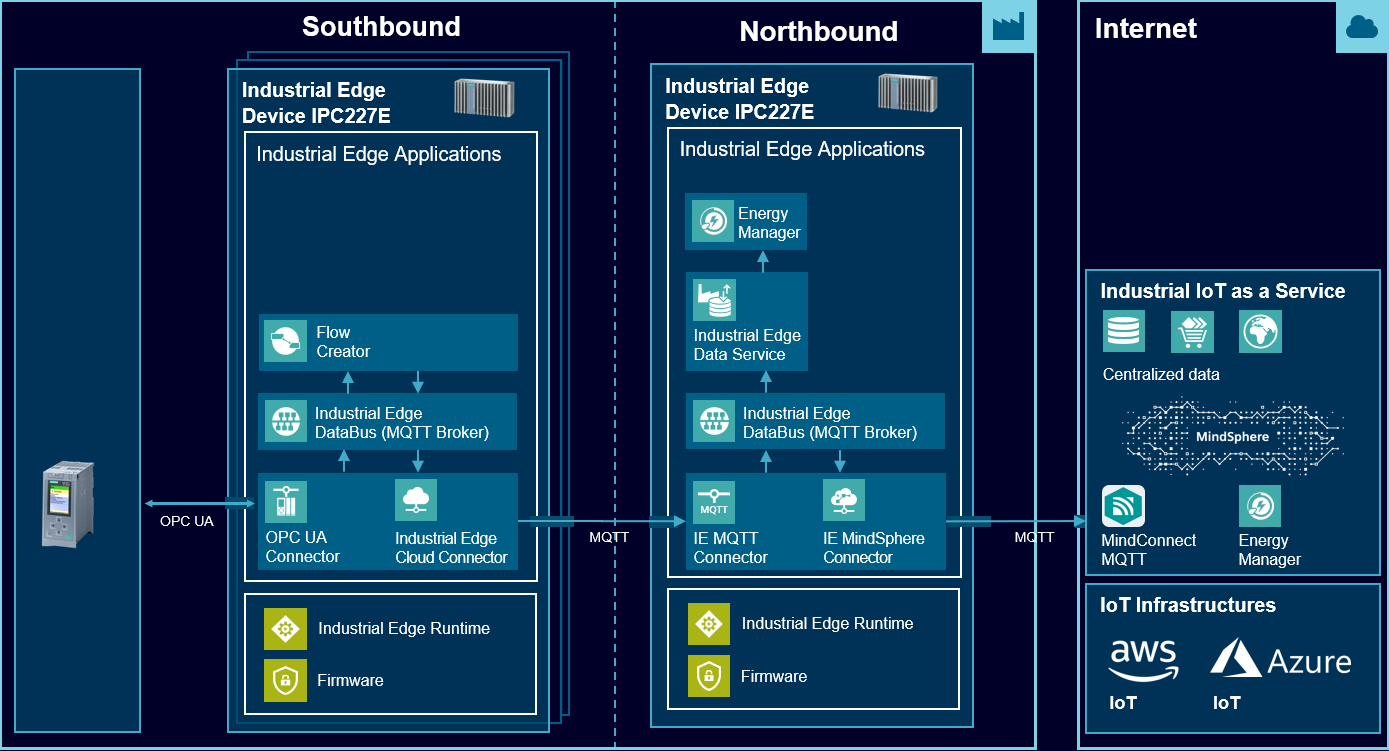
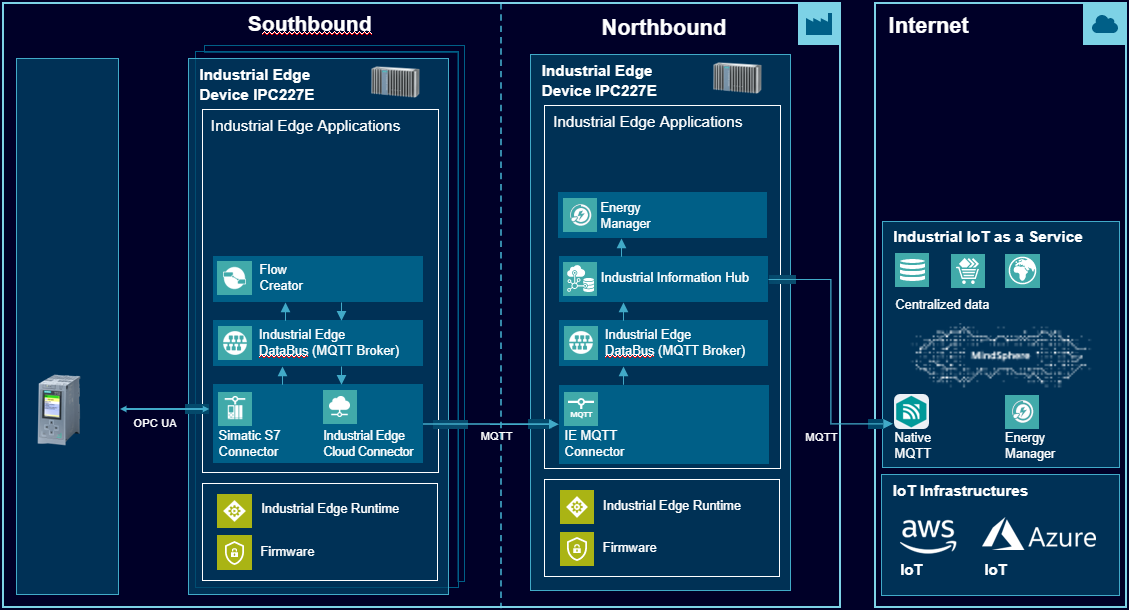
added new hierachy picture

Changed region(s): [[0.0, 0.0, 1.0, 1.0]]

diff --git a/README.md b/README.md
@@ -2,10 +2,10 @@
 
 Use case for communication from Edge Device to Edge Device and company Cloud (e.g. MindSphere) via MQTT 
 
-- [Shopfloor to Cloud Connectivity - Integrate machine & production data securely into the company cloud](#shopfloor-to-cloud-connectivity---integrate-machine--production-data-securely-into-the-company-cloud)
+- [Shopfloor to Cloud Connectivity - Integrate machine \& production data securely into the company cloud](#shopfloor-to-cloud-connectivity---integrate-machine--production-data-securely-into-the-company-cloud)
   - [Overview](#overview)
     - [Reference Architecture](#reference-architecture)
-      - [Option 1: MindSphere Connector - MindConnect MQTT](#option-1-mindsphere-connector---mindconnect-mqtt)
+      - [Option 1: IIH Mindsphere Sync - Native MQTT](#option-1-iih-mindsphere-sync---native-mqtt)
       - [Option 2: IE Cloud Connector - MindConnect IoT Extension](#option-2-ie-cloud-connector---mindconnect-iot-extension)
     - [Network Architecture](#network-architecture)
   - [General task](#general-task)
@@ -19,13 +19,13 @@ Use case for communication from Edge Device to Edge Device and company Cloud (e.
   - [Contribution](#contribution)
   - [Licence and Legal Information](#licence-and-legal-information)
 
-## Overview 
+## Overview
 
 ![overview](docs/graphics/overview.png)
 
 ### Reference Architecture 
 
-#### Option 1: MindSphere Connector - MindConnect MQTT 
+#### Option 1: IIH Mindsphere Sync - Native MQTT 
 
 ![overview3](docs/graphics/overview4.png)
 

diff --git a/docs/install_PLC_Devices_Southbound.md b/docs/install_PLC_Devices_Southbound.md
@@ -60,7 +60,8 @@ To provide data from the PLC on the IE Databus connect the OPC UA Connector to t
 
 1. Launch the OPC UA Connector Configurator in the Industrial Edge Management under 'Data Connections' and configure the PLC connection 
 2. Import the JSON file [energy1_OPCUA_Connector](../src/Device_Energy1/energy1_OPCUA_Connector.json) for Energy1 and [energy2_OPCUA_Connector](../src/Device_Energy2/energy2_OPCUA_Connector.json) for Energy2 
-3. Deploy and start your OPC UA Connector configuration
+3. Adjust IP adress of the imported PLC connection
+4. Deploy and start your OPC UA Connector configuration
 
   ![OPCUA_connector](graphics/OPCUA_Connector.png)
 
